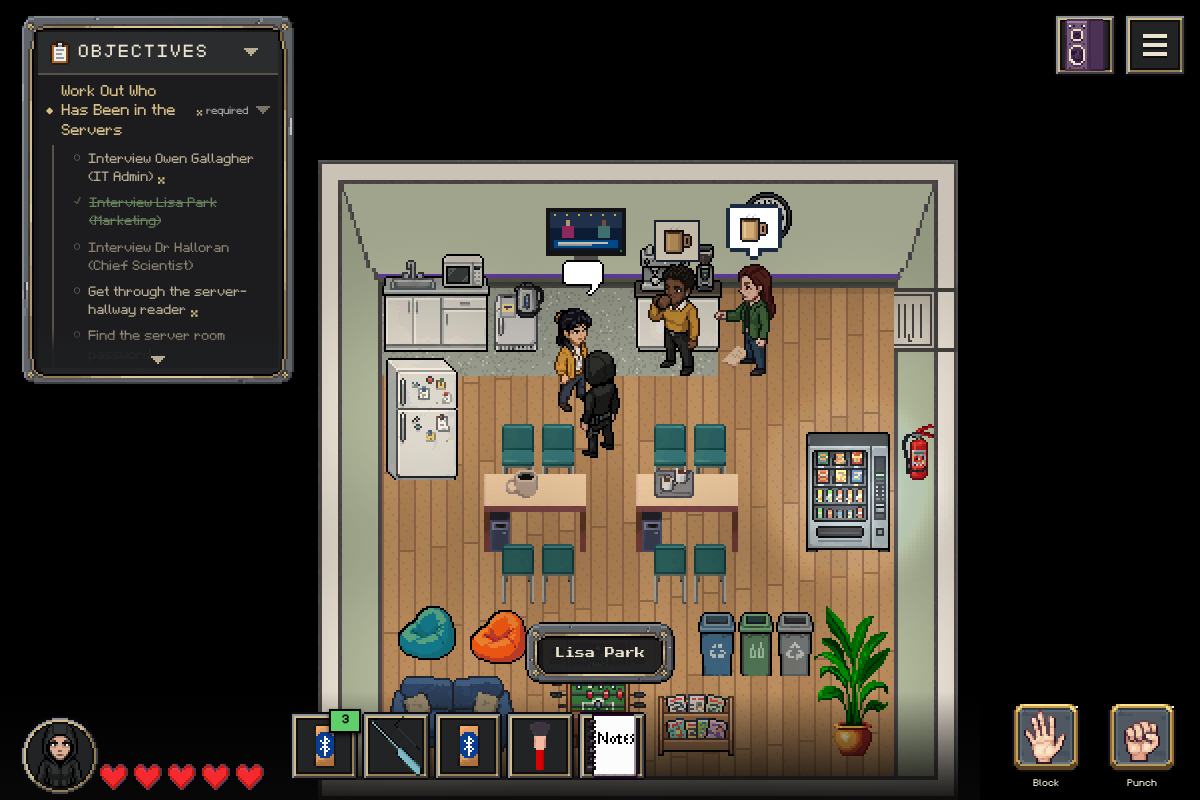
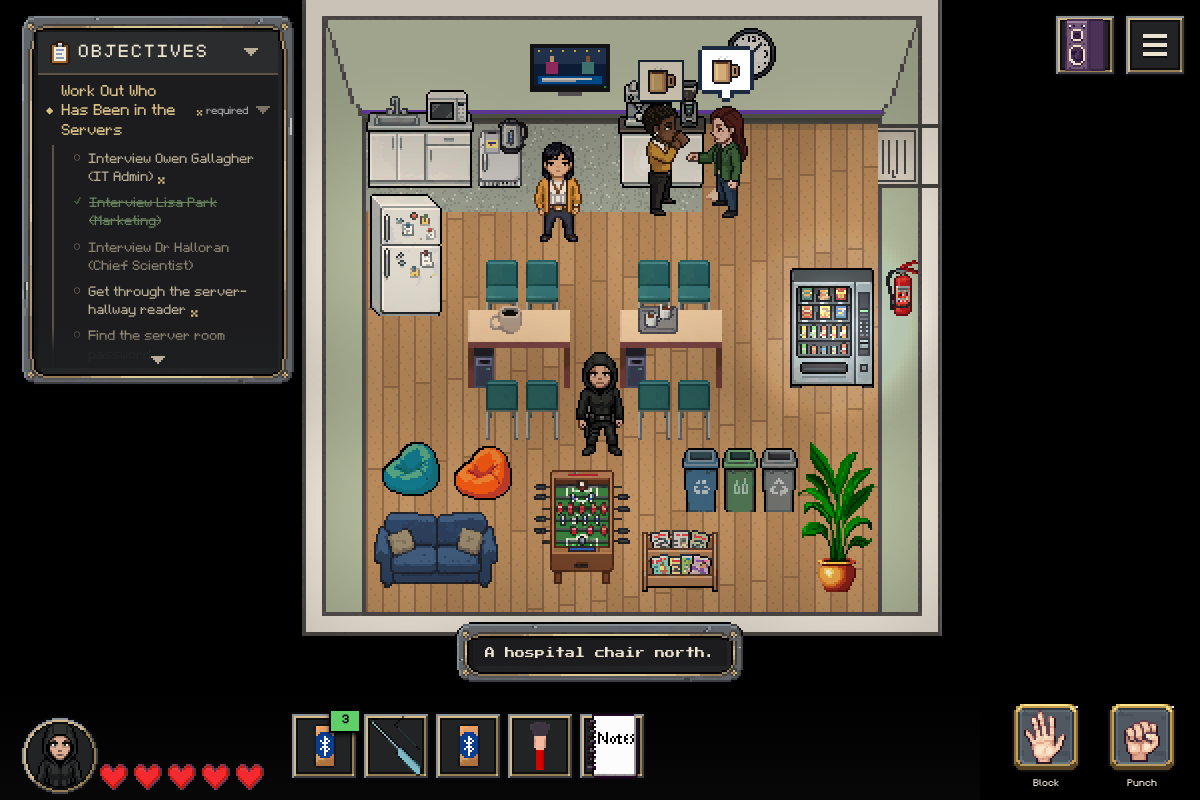
m05 office life: build report, espresso pair re-shot, evening and E4 screenshots

diff --git a/scenarios/m05_insider_trading/office_life/BUILD_REPORT.md b/scenarios/m05_insider_trading/office_life/BUILD_REPORT.md
@@ -1,0 +1,81 @@
+# m05 office life: build report (slices 1 to 4 and 2A)
+
+Branch plan/ol-m05. Data only: every change is in `scenario.json.erb` and the debrief ink. No engine change. Live runs headless, setFPS(20), fixed steps on, one fresh game per probe, server on :3092.
+
+## What was built
+
+- Slice 1, machines and presets: `officePresets`; `break_espresso`, `corridor_cooler` objects; globals `qdc_staff_upset`, `qdc_cooler_off`, `thandiwe_ko`, `niamh_ko`, `lisa_met`.
+- Slice 2, the day pair: Thandiwe Moyo (seat tile (6,7)) and Niamh Doherty (6,5) at table 2, seated, leashed, with caffeine and thirst needs, a `qdc_staff` group, break mappings (Lisa's conversation sends Thandiwe for coffee, Niamh follows), cooler walks to the corridor, the goodbye seed on `server_badge_obtained`.
+- Slice 3, the turns: Thandiwe hides on `room_entered:server_room` (plain) and again on the next break room and corridor entries (two `onceOnly`); Niamh stays at night; `qdc_cooler_off` set by `qdc_staff_upset` or `torres_identified`.
+- Slice 4, trouble: six mappings on `agent_0x99_handler` (five trouble, two cooler switch, appended last); credits conditions and the "A MEMBER OF STAFF" line; debrief VARs, `friendly_kos()` and a 10 point trust cost for each newcomer KO; ink recompiled.
+- Slice 2A, Lisa: one `tea` need, `lisa_met` first-talk gate, two trip mappings (`room_entered:open_office_area` and `reception_lobby`).
+
+## Deviations from the plan
+
+1. Espresso `useFrom` changed from (-1,1) to (0,1) (`scenario.json.erb`, about line 1859). With (-1,1) the first user stood in Lisa's column and every route from the seats ran up the aisle past her (closest approach 21 px); the second user fell to the kettle cell. Now first user (180,115), second (212,111).
+2. Lisa's tea trip goes to the staff fridge (`qdc_fridge_milk`, Tiled item `qdc_fridge1`), not the kettle. The kettle cell is 25 px from her post, so a kettle trip was barely visible and she never walked back. `kettle1` is no longer declared.
+3. Seat tiles moved: needsHome is the tile corner (x*32, y*32), so Thandiwe (6,7) and Niamh (6,5), not (6,6) and (6,4).
+
+## Estimates, measured
+
+| Estimate | Plan | Measured |
+|---|---|---|
+| Thandiwe leaves after Lisa's conversation closes | about 4 s | 2.8 to 3.0 s (5 of 5) |
+| Thandiwe starts using espresso | within about 4 s | 4.5 to 4.9 s after close |
+| Pair both at the espresso | yes | 5 of 5: Thandiwe 44 to 47 px from the machine centre, Niamh 67 to 71 px (5 of 5); Niamh (212..215, 81..84), Thandiwe (179..180, 80..84) |
+| Route clearance from Lisa | at least 48 px | Niamh 48 to 52 px, Thandiwe 79 to 96 px (all samples, last tile included) |
+| Lisa trip: leave, use, return | about 1 s walk | left post 4.8 to 7.9 s after the player left, use 0.8 to 1.3 s later, back 12.7 to 13.9 s after use start |
+| Lisa walk-out distance | visible | 82 to 86 px from post |
+| Lisa return accuracy | within 8 px | 22 to 32 px short, 5 of 5 (see Known items) |
+| Break length, pair | about 30 s | 30 s away, 5 breaks |
+| Sync budget | small | 4 flushes in 5 min, 6,892 bytes: 6,170 first (full seed), then 448 and two small deltas |
+| Night reload | posts reset | see table |
+
+## Checks
+
+Games: 6975, 6989, 7093, 7099, 7100, 7101, 7102, 7121, 7122 (earlier runs, see handover) and, this run, 7135, 7139, 7141, 7146, 7150, 7184, 7186, 7187, 7188, 7190 plus the atk/KO/evening/night runs below.
+
+| Check | Game | Result | Measured |
+|---|---|---|---|
+| Validator | | pass | 0 errors, 34 warnings |
+| Lock and key diff vs baseline | | pass | empty |
+| L1a route clearance | 7093 and earlier | pass | above |
+| L1b Lisa talkable with pair using | | pass | 4 of 4 |
+| L1c second user cell | | pass | (212,111) 5 of 5, never the kettle cell |
+| L2 pamphlet with pair at espresso | | pass | try 1 |
+| L3 five tries | 7184, 7186, 7187, 7188, 7190 | pass 5 of 5 | leaves 2.8, 2.9, 3.0, 2.9, 3.0 s; use starts 4.5, 4.7, 4.7, 4.9, 4.7 s |
+| E-L1 trip and talk | various | pass | 5 of 5 each, talk at fridge and mid-walk 10 of 10 |
+| E-L2 reload mid-trip | | pass | 5 of 5, one sprite, at post |
+| E1 hidden on entry | 7141, 7175 | pass | Thandiwe vis false after server room, unseated |
+| E2 no sprite on chair | 7175 | pass | seated false, alpha 0 |
+| E3 night, Niamh stays | 7179 | pass (static); ten needs-minutes in ev.log | Niamh seated in break room, corridor empty, `qdc_cooler_off` true |
+| E4 skip route | 7122 | Haiku FAIL was a harness artefact | its enter() calls failed with door-locked, so `server_room_entered` never became true and a seated Thandiwe was correctly visible. Her x of -124 is the break room's world offset (break room x origin about -312), not a parked sprite |
+| E4 skip route, real route | 7141, 7150, 7139 | partial, see Known items | hidden on entry (vis false, alpha 0, body off); but visible for 36 to 44 frames (about 1 s) in the corridor view before entry |
+| E5, E6, E7 | | not built | Bernadette is slice 6 |
+| Evening reload | 7175 | pass | Thandiwe hidden, Niamh reseated, 1 sprite each, no errors |
+| Night reload | 7179 | pass | `torres_identified`, `qdc_cooler_off` survive; Niamh seated, Thandiwe hidden, 1 sprite each |
+| Attack Niamh | 7100, rerun | pass; Haiku FAIL was a misread | `isNPCHostile` stays true by design. She gave up the chase (`_gaveUpChase` true, state idle) 2 s after the player left, stood at (202,127), 34 px from her post (192,160), and stayed in the room 16 s. On re-entry she chases again, as the leash allows |
+| Attack Lisa (no KO) | 7101 | expected | no leash is declared for Lisa in the baseline or the plan (leash only on newcomers), so a struck Lisa follows the player across rooms. Upset and cooler off set |
+| KO Thandiwe | 7099, 7188 run | pass; Haiku "no walk home" is expected | a KO'd NPC stays down (idle, KO, 30 s) and keeps `thandiwe_ko`. Walk home applies to the unstruck staff |
+| KO Lisa in front of pair | | not run | |
+| Live debrief trust check | | not reached | needs the mission end (`mission_complete`); static check passed: both KO VARs count in `friendly_kos()` and cost `handler_trust` 10 |
+| Cooler pair | 7121 | pass | two cooler uses; Niamh (445,61), Thandiwe (418,61) |
+| Sync budget | 7121 | pass | above |
+| Espresso pair screenshot | 7184 | pass | `screenshots/espresso-pair.png`, both at the machine, Lisa at post |
+| Evening break room, Thandiwe gone | 7175 | pass | `screenshots/evening-break-thandiwe-gone.png` |
+
+Note on `debugKO`: the test bridge KO does not emit `npc_attacked`, so it leaves `qdc_staff_upset` false. Use real punches (game 7099) for the trouble chain.
+
+## Known items for review
+
+1. Lisa's return stops 22 to 32 px short of her post (128,128). The engine ends a walk once within one tile of its goal (`npc-behavior.js:1402-1416`), and the walk home has no `arriveWithin` (`npc-needs.js:4139`). Data cannot fix it; options are an engine arrive tolerance or moving her post. Niamh after a chase stops the same distance short.
+2. Skip route (server room before the break room): the break room is drawn from the corridor through the west door as soon as it loads, and Thandiwe is created visible there for about 1 s before `room_entered:break_room` hides her (`screenshots/e4-skip-route-corridor-view.png`). PLAN 2.10 gives the fix (`initiallyHidden` plus a `setVisible: true` reveal on first entry while `server_room_entered !== true`). Not applied: it would make her appear from nothing for every player on the usual first visit. Needs a decision.
+3. A struck Niamh or Thandiwe stays hostile and standing, not reseated, after giving up the chase.
+4. Lisa has no leash (baseline); a struck Lisa chases across rooms.
+5. Two `onceOnly` keys on Thandiwe, none on Niamh; re-counted in section 7.
+
+## To do
+
+Slice 5 (needs the user's yes on `DIALOGUE_SAMPLE.md`): `storyPath` for Thandiwe and Niamh, chatter pools, exchanges `ex_whispering`, `ex_collection`, `ex_heading_home`, `heard_` globals, TTS (about 42 clips), walkthrough note.
+Slice 6: Bernadette Lyons (NPC, art, bins, mappings, `bernadette_ko`, credits, debrief, trouble), Niamh's espresso coupling to her, `ex_late_again`, room tone, checks E5 to E7.
+Open checks: KO Lisa in front of the pair, live debrief trust, E3 ten-minute rerun on the final build.
